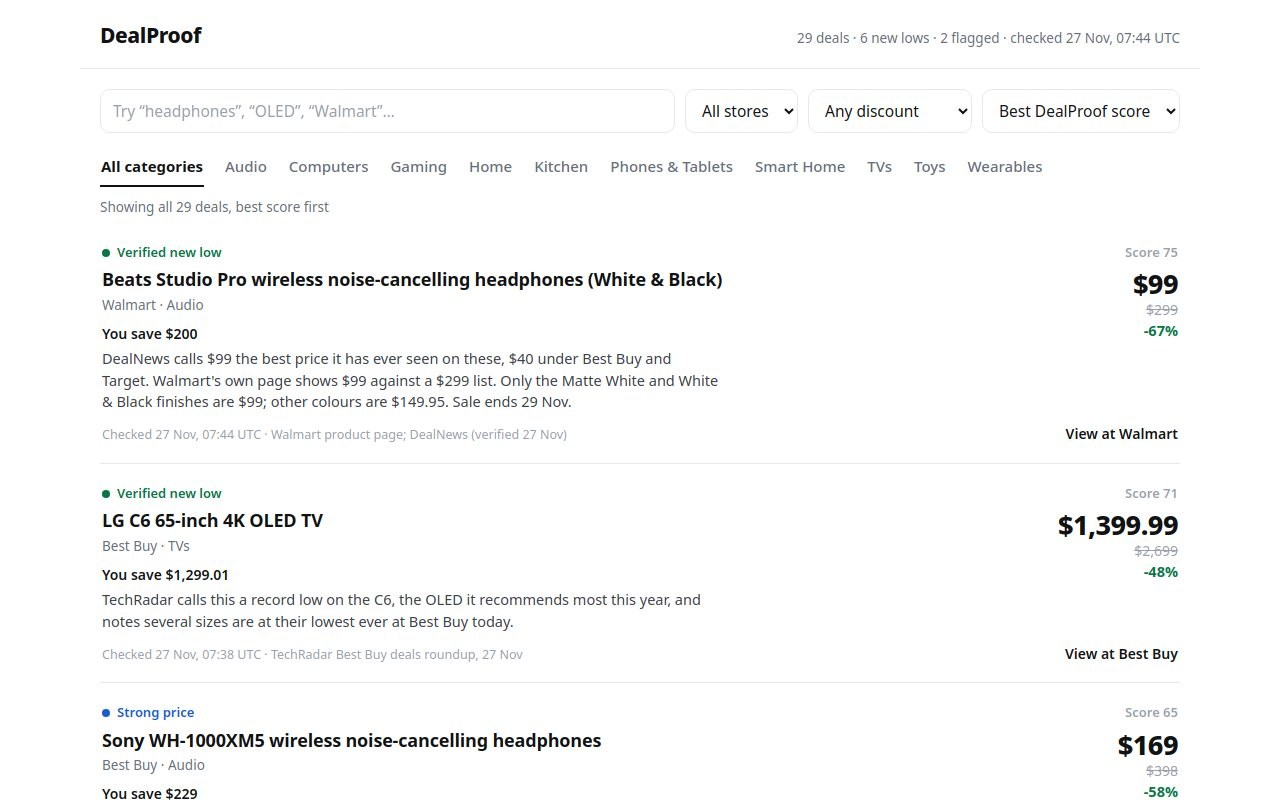
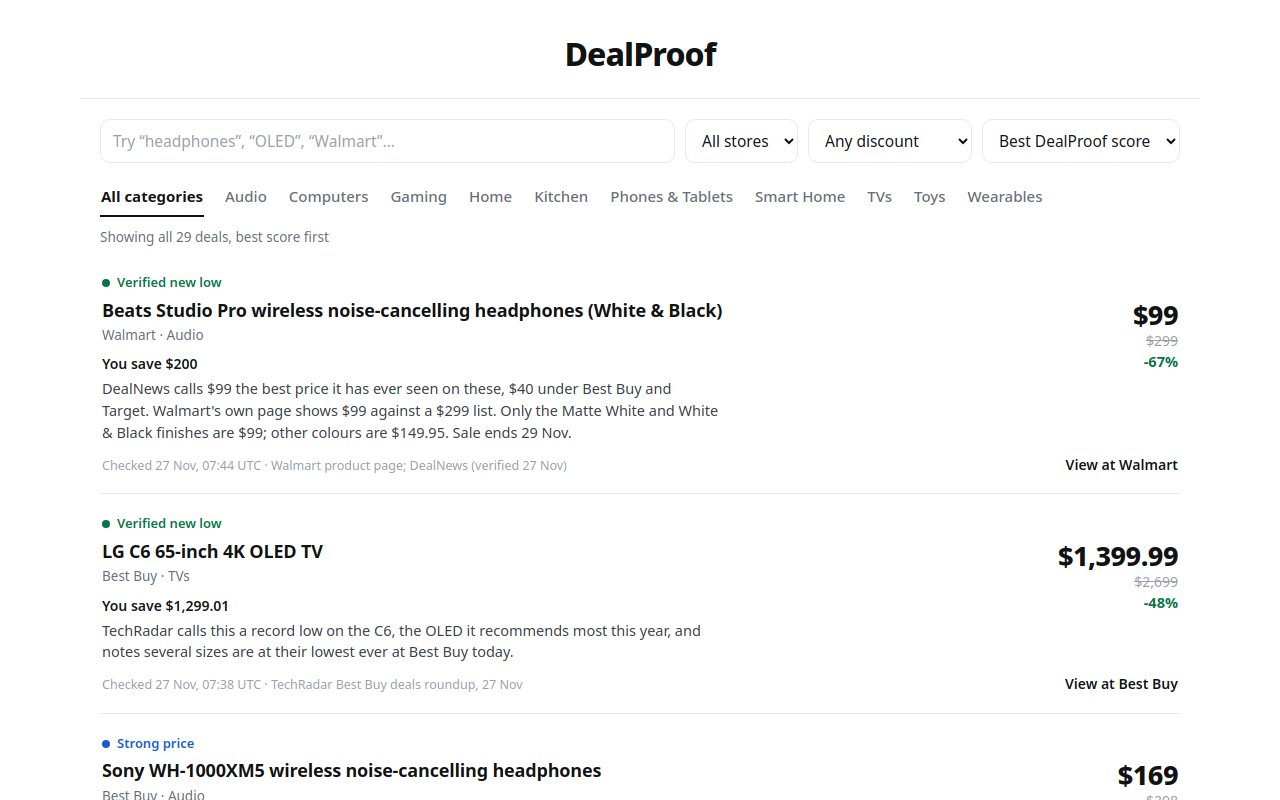
Hide score numbers (sorting unchanged); centred wordmark header

diff --git a/app/index.html b/app/index.html
@@ -12,7 +12,6 @@
 <body>
 <header class="masthead">
   <a class="brand" href="#/">DealProof</a>
-  <p id="stats-line" class="stats-line"></p>
 </header>
 
 <section id="controls" class="controls" aria-label="Search and filters">
@@ -56,7 +55,7 @@
 <section id="compare" class="compare"></section>
 
 <footer class="site-foot">
-  <p><strong>How the grades work.</strong> Every price was read at the named store on Friday 27 November 2026 and is stamped with its check time and source. <em>Verified new low</em> is the lowest price tracked for that product; <em>strong price</em> is a deep, genuine cut; <em>routine sale</em> is real but repeats through the year; <em>inflated anchor</em> means the “usual” price was freshly hiked or is a store-brand anchor, so the headline percent flatters the deal. The score on each deal combines the size of the cut, the dollars saved and that grade.</p>
+  <p><strong>How the grades work.</strong> Every price was read at the named store on Friday 27 November 2026 and is stamped with its check time and source. <em>Verified new low</em> is the lowest price tracked for that product; <em>strong price</em> is a deep, genuine cut; <em>routine sale</em> is real but repeats through the year; <em>inflated anchor</em> means the “usual” price was freshly hiked or is a store-brand anchor, so the headline percent flatters the deal. The board is ordered by a score combining the size of the cut, the dollars saved and that grade, so the best deals come first.</p>
 </footer>
 </body>
 </html>

diff --git a/app/main.js b/app/main.js
@@ -14,7 +14,6 @@ const minEl = document.getElementById("min-select");
 const sortEl = document.getElementById("sort-select");
 const chipsEl = document.getElementById("cat-chips");
 const countEl = document.getElementById("result-count");
-const statsEl = document.getElementById("stats-line");
 
 const categories = [...new Set(deals.map((d) => d.category))].sort();
 const stores = [...new Set(deals.map((d) => d.store))].sort();
@@ -64,21 +63,6 @@ function updateHash(patch) {
   if (next.sort && next.sort !== "score") params.set("sort", next.sort);
   const qs = params.toString();
   location.hash = qs ? `/?${qs}` : "/";
-}
-
-function renderStats() {
-  const lows = deals.filter((d) => d.signal === "new-low").length;
-  const flagged = deals.filter((d) => d.signal === "inflated").length;
-  const latest = deals.map((d) => d.checked).sort().at(-1);
-  const when = new Date(latest).toLocaleString("en-GB", {
-    day: "numeric",
-    month: "short",
-    hour: "2-digit",
-    minute: "2-digit",
-    timeZone: "UTC",
-  });
-  statsEl.textContent =
-    `${deals.length} deals · ${lows} new lows · ${flagged} flagged · checked ${when} UTC`;
 }
 
 function render() {
@@ -138,5 +122,4 @@ minEl.addEventListener("change", () => updateHash({ min: Number(minEl.value) }))
 sortEl.addEventListener("change", () => updateHash({ sort: sortEl.value }));
 window.addEventListener("hashchange", render);
 
-renderStats();
 render();

diff --git a/app/style.css b/app/style.css
@@ -32,24 +32,19 @@ a:focus-visible, button:focus-visible, input:focus-visible, select:focus-visible
   outline-offset: 2px;
 }
 
-/* Slim top bar: wordmark left, one quiet line of facts right. */
+/* Slim top bar: the wordmark alone, centred, nothing else up here. */
 .masthead {
-  display: flex;
-  align-items: baseline;
-  justify-content: space-between;
-  gap: 16px;
-  flex-wrap: wrap;
+  text-align: center;
   max-width: 1120px;
   margin: 0 auto;
-  padding: 20px 20px 16px;
+  padding: 30px 20px 20px;
 }
 .brand {
-  font-size: 21px;
-  font-weight: 800;
-  letter-spacing: -0.02em;
+  font-size: 32px;
+  font-weight: 850;
+  letter-spacing: -0.03em;
   text-decoration: none;
 }
-.stats-line { margin: 0; font-size: 13.5px; color: var(--muted); }
 
 /* Controls: one light row, text tabs for categories. */
 .controls {
@@ -129,8 +124,6 @@ a:focus-visible, button:focus-visible, input:focus-visible, select:focus-visible
 .badge-strong { color: var(--strong); }
 .badge-routine { color: var(--routine); }
 .badge-inflated { color: var(--inflated); }
-.score-chip { font-size: 13px; font-weight: 600; color: var(--faint); }
-.score-chip.big { font-size: 14px; }
 .card-title { grid-column: 1; font-size: 18px; font-weight: 650; line-height: 1.3; margin: 0; letter-spacing: -0.01em; }
 .card-title a { text-decoration: none; }
 .card-title a:hover { text-decoration: underline; text-underline-offset: 3px; }

diff --git a/app/views.js b/app/views.js
@@ -1,6 +1,6 @@
 // DealProof views: every render builds DOM nodes and sets text with
 // textContent, never innerHTML, so deal text can never become markup.
-import { discountPct, savings, scoreDeal, formatMoney } from "./logic.js";
+import { discountPct, savings, formatMoney } from "./logic.js";
 
 export const SIGNAL_LABEL = {
   "new-low": "Verified new low",
@@ -36,9 +36,6 @@ export function dealCard(deal) {
 
   const top = el("div", "card-top");
   top.append(signalBadge(deal));
-  const score = el("span", "score-chip", `Score ${scoreDeal(deal)}`);
-  score.title = "DealProof score: cut size, dollars saved and honesty signal";
-  top.append(score);
   card.append(top);
 
   const title = el("h3", "card-title");
@@ -138,7 +135,6 @@ export function renderDetail(container, deal, allDeals) {
 
   const top = el("div", "card-top");
   top.append(signalBadge(deal));
-  top.append(el("span", "score-chip big", `Score ${scoreDeal(deal)}`));
   wrap.append(top);
 
   wrap.append(el("h2", "detail-title", deal.title));
